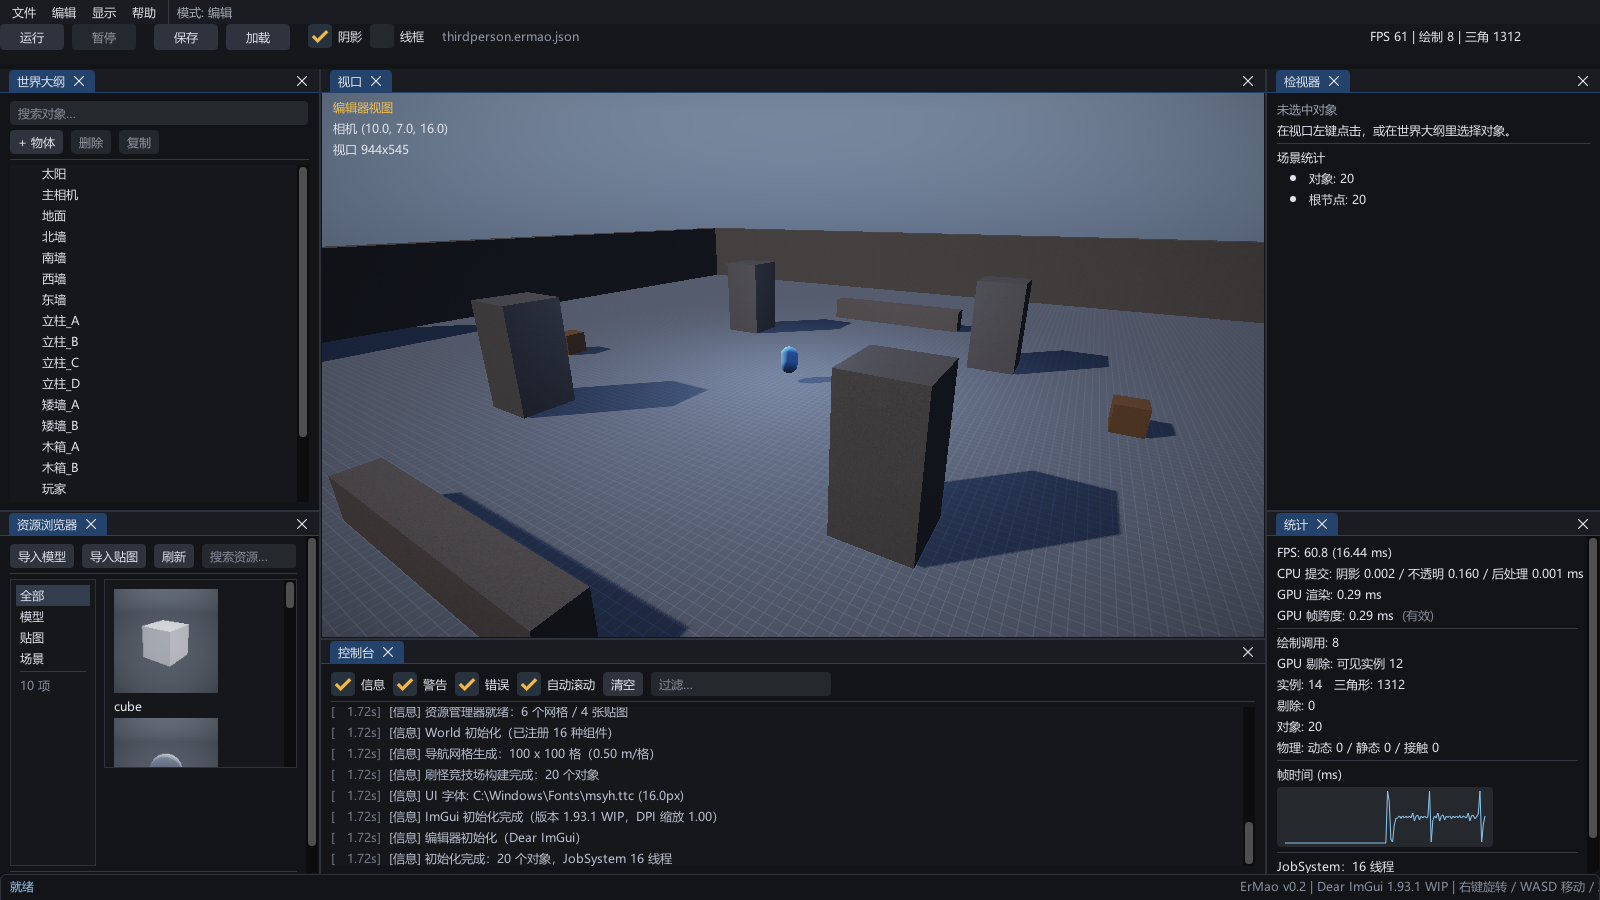
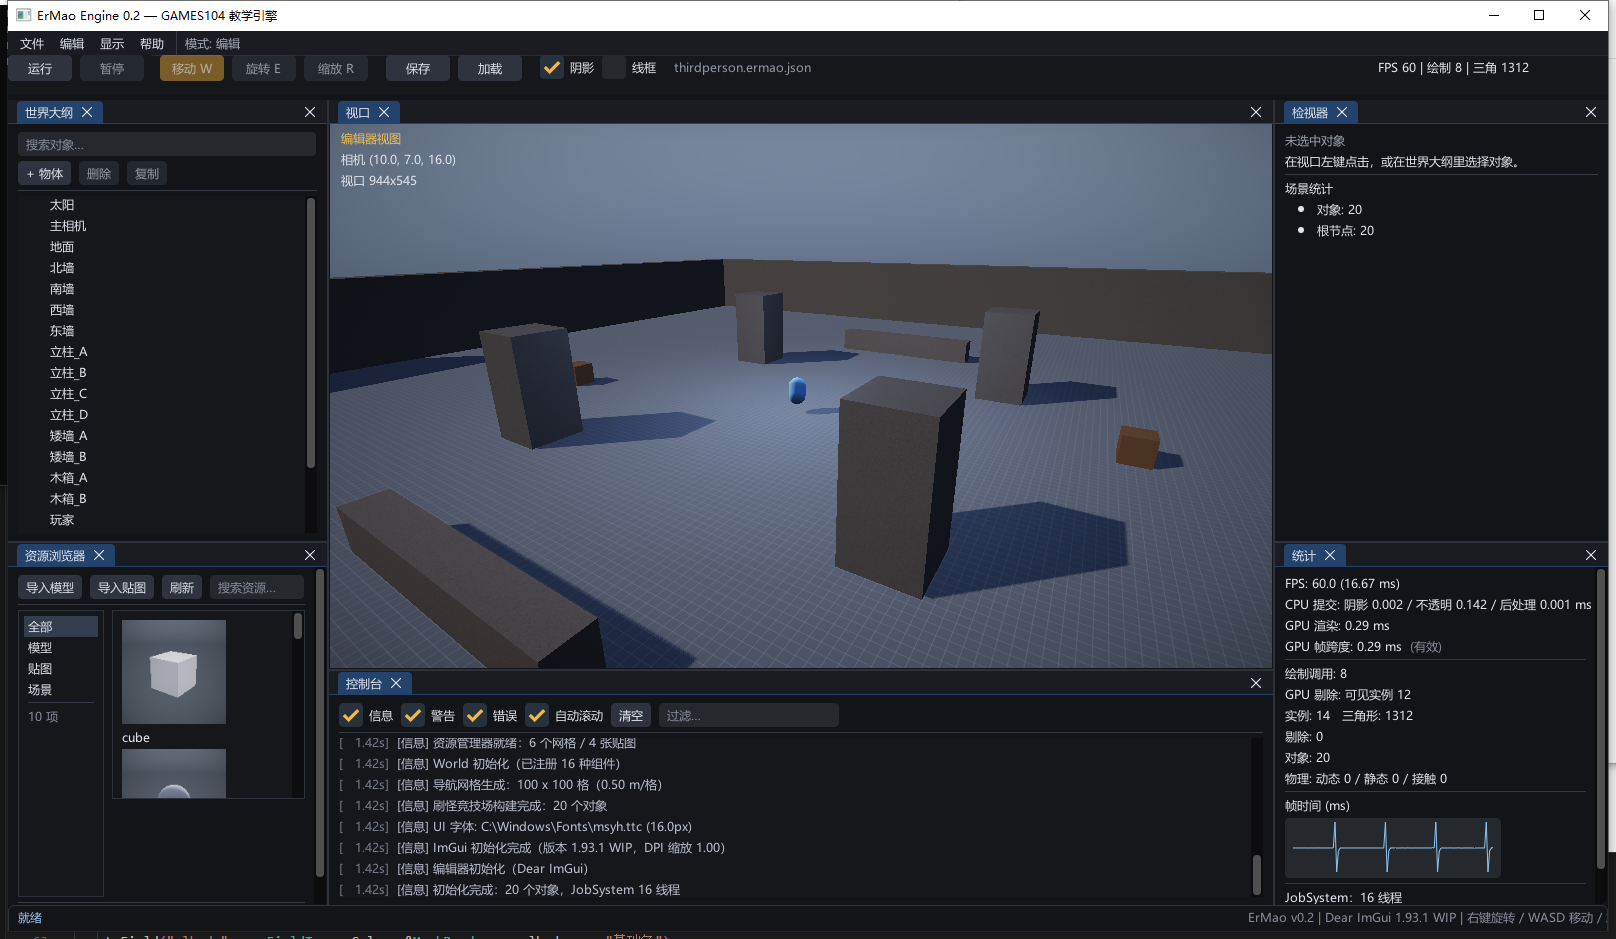
editor: rotate/scale gizmos (W/E/R), camera on RMB, gizmo toolbar; docs: asset credits, 2D/packaging chapters

diff --git a/engine/src/editor/EditorUI.cpp b/engine/src/editor/EditorUI.cpp
@@ -321,6 +321,19 @@ void Editor::DrawToolbar(World& world, Renderer& renderer) {
     ImGui::SameLine();
     ImGui::BeginDisabled(!m_playing);
     if (ImGui::Button(m_paused ? "继续" : "暂停", ImVec2(64, 26))) Pause();
+    ImGui::SameLine();
+    ImGui::Separator();
+    ImGui::SameLine();
+    {
+        const char* gizmoNames[3] = {"移动 W", "旋转 E", "缩放 R"};
+        for (int gi = 0; gi < 3; ++gi) {
+            const bool active = (m_gizmoMode == gi);
+            if (active) ImGui::PushStyleColor(ImGuiCol_Button, ImVec4(0.85f, 0.62f, 0.22f, 0.85f));
+            if (ImGui::Button(gizmoNames[gi], ImVec2(64, 26))) m_gizmoMode = gi;
+            if (active) ImGui::PopStyleColor();
+            if (gi < 2) ImGui::SameLine();
+        }
+    }
     ImGui::EndDisabled();
 
     ImGui::SameLine(0, 18);
@@ -379,16 +392,26 @@ void Editor::DrawViewport(World& world, Renderer& renderer, Camera& editorCamera
                 const Vec3 forward = editorCamera.Forward();
                 const Vec3 right = editorCamera.Right();
                 Vec3 move{0, 0, 0};
-                if (ImGui::IsKeyDown(ImGuiKey_W)) move += forward;
-                if (ImGui::IsKeyDown(ImGuiKey_S)) move -= forward;
-                if (ImGui::IsKeyDown(ImGuiKey_D)) move += right;
-                if (ImGui::IsKeyDown(ImGuiKey_A)) move -= right;
-                if (ImGui::IsKeyDown(ImGuiKey_E)) move += Vec3(0, 1, 0);
-                if (ImGui::IsKeyDown(ImGuiKey_Q)) move -= Vec3(0, 1, 0);
+                if (ImGui::IsMouseDown(ImGuiMouseButton_Right)) {
+                    if (ImGui::IsKeyDown(ImGuiKey_W)) move += forward;
+                    if (ImGui::IsKeyDown(ImGuiKey_S)) move -= forward;
+                    if (ImGui::IsKeyDown(ImGuiKey_D)) move += right;
+                    if (ImGui::IsKeyDown(ImGuiKey_A)) move -= right;
+                    if (ImGui::IsKeyDown(ImGuiKey_E)) move += Vec3(0, 1, 0);
+                    if (ImGui::IsKeyDown(ImGuiKey_Q)) move -= Vec3(0, 1, 0);
+                }
                 if (LengthSq(move) > 0.0f) editorCamera.position += Normalize(move) * speed;
             }
 
-            // ---- 位移 gizmo（先于拾取，避免拖拽轴时改选中）
+            // ---- Gizmo 模式切换：W 移动 / E 旋转 / R 缩放
+            if (!m_playing && m_viewportHovered && !ImGui::GetIO().WantTextInput &&
+                !ImGui::IsMouseDown(ImGuiMouseButton_Right)) {
+                if (ImGui::IsKeyPressed(ImGuiKey_W)) m_gizmoMode = 0;
+                if (ImGui::IsKeyPressed(ImGuiKey_E)) m_gizmoMode = 1;
+                if (ImGui::IsKeyPressed(ImGuiKey_R)) m_gizmoMode = 2;
+            }
+
+            // ---- 位移/旋转/缩放 gizmo（先于拾取，避免拖拽轴时改选中）
             if (!m_playing && m_gizmoEnabled && m_selected && m_viewportHovered) {
                 DrawGizmo(world, editorCamera, imageMin,
                           ImVec2(static_cast<float>(m_viewportWidth), static_cast<float>(m_viewportHeight)));
@@ -1064,7 +1087,7 @@ void Editor::DrawGizmo(World& world, Camera& editorCamera, const ImVec2& viewpor
     const float distance = Length(editorCamera.position - origin);
     const float axisLength = Clamp(distance * 0.16f, 0.35f, 6.0f);
 
-    const Vec3 axes[3] = {{1, 0, 0}, {0, 1, 0}, {0, 0, 1}};
+    const Vec3  axes[3] = {{1, 0, 0}, {0, 1, 0}, {0, 0, 1}};
     const ImU32 colors[3] = {IM_COL32(232, 78, 78, 255), IM_COL32(96, 208, 96, 255), IM_COL32(88, 140, 240, 255)};
 
     auto project = [&](const Vec3& worldPos, ImVec2& out) -> bool {
@@ -1079,10 +1102,87 @@ void Editor::DrawGizmo(World& world, Camera& editorCamera, const ImVec2& viewpor
 
     ImDrawList* draw = ImGui::GetForegroundDrawList();
     const ImVec2 mouse = ImGui::GetIO().MousePos;
+    const bool   activeDrag = m_gizmoAxis >= 0;
 
-    // 命中测试：鼠标到线段的屏幕距离
-    int hoveredAxis = -1;
-    float bestDistance = 10.0f;
+    if (m_gizmoMode == 1) {
+        // ---------------- 旋转：三个环 ----------------
+        int    hovered = -1;
+        float  best = 9.0f;
+        for (int i = 0; i < 3; ++i) {
+            // 在垂直于轴的平面里取两个基向量
+            const Vec3 n = axes[i];
+            const Vec3 u = Normalize(Cross(n, std::fabs(n.y) > 0.9f ? Vec3(1, 0, 0) : Vec3(0, 1, 0)));
+            const Vec3 v = Cross(n, u);
+
+            ImVec2 points[33];
+            bool   valid[33] = {false};
+            int    validCount = 0;
+            for (int k = 0; k <= 32; ++k) {
+                const float angle = kTwoPi * static_cast<float>(k) / 32.0f;
+                const Vec3  p = origin + (u * std::cos(angle) + v * std::sin(angle)) * axisLength;
+                if (project(p, points[k])) {
+                    valid[k] = true;
+                    ++validCount;
+                }
+            }
+            if (validCount < 8) continue;
+
+            // 命中：鼠标到线段的最短距离
+            ImVec2 prev = points[0];
+            for (int k = 1; k <= 32; ++k) {
+                if (!valid[k] || !valid[k - 1]) { prev = points[k]; continue; }
+                const ImVec2 a = prev;
+                const ImVec2 b = points[k];
+                prev = b;
+                const ImVec2 ab(b.x - a.x, b.y - a.y);
+                const float  len2 = ab.x * ab.x + ab.y * ab.y;
+                if (len2 < 1.0f) continue;
+                float t = ((mouse.x - a.x) * ab.x + (mouse.y - a.y) * ab.y) / len2;
+                t = Clamp(t, 0.0f, 1.0f);
+                const float dx = mouse.x - (a.x + ab.x * t);
+                const float dy = mouse.y - (a.y + ab.y * t);
+                const float dist = std::sqrt(dx * dx + dy * dy);
+                if (dist < best) {
+                    best = dist;
+                    hovered = i;
+                }
+            }
+
+            // 绘制环
+            const bool  active = (i == hovered) || (i == m_gizmoAxis);
+            ImVec2 last;
+            bool   hasLast = false;
+            for (int k = 0; k <= 32; ++k) {
+                if (!valid[k]) { hasLast = false; continue; }
+                if (hasLast) draw->AddLine(last, points[k], colors[i], active ? 3.5f : 2.0f);
+                last = points[k];
+                hasLast = true;
+            }
+        }
+
+        if (!activeDrag && hovered >= 0 && ImGui::IsMouseClicked(ImGuiMouseButton_Left)) {
+            m_gizmoAxis = hovered;
+            m_gizmoStartMouseX = mouse.x;
+            m_gizmoStartMouseY = mouse.y;
+            m_gizmoStartRotation = m_selected->Rotation();
+        }
+        if (activeDrag) {
+            if (ImGui::IsMouseDown(ImGuiMouseButton_Left)) {
+                const float delta = (mouse.x - m_gizmoStartMouseX) + (mouse.y - m_gizmoStartMouseY);
+                const float angle = delta * 0.01f;
+                const Quat  rotation = Quat::FromAxisAngle(axes[m_gizmoAxis], angle) * m_gizmoStartRotation;
+                m_selected->SetRotation(rotation);
+            } else {
+                m_gizmoAxis = -1;
+            }
+        }
+        draw->AddCircleFilled(screenOrigin, 3.0f, IM_COL32(240, 240, 240, 200));
+        return;
+    }
+
+    // ---------------- 位移 / 缩放：三轴 ----------------
+    int    hoveredAxis = -1;
+    float  bestDistance = 10.0f;
     ImVec2 axisEnds[3];
     bool   axisValid[3] = {false, false, false};
     for (int i = 0; i < 3; ++i) {
@@ -1095,21 +1195,21 @@ void Editor::DrawGizmo(World& world, Camera& editorCamera, const ImVec2& viewpor
         if (lengthSq < 1.0f) continue;
         float t = ((mouse.x - a.x) * ab.x + (mouse.y - a.y) * ab.y) / lengthSq;
         t = Clamp(t, 0.0f, 1.0f);
-        const ImVec2 closest(a.x + ab.x * t, a.y + ab.y * t);
-        const float  dist = std::sqrt((mouse.x - closest.x) * (mouse.x - closest.x) +
-                                      (mouse.y - closest.y) * (mouse.y - closest.y));
+        const float dx = mouse.x - (a.x + ab.x * t);
+        const float dy = mouse.y - (a.y + ab.y * t);
+        const float dist = std::sqrt(dx * dx + dy * dy);
         if (dist < bestDistance) {
             bestDistance = dist;
             hoveredAxis = i;
         }
     }
 
-    // 开始拖拽
-    if (m_gizmoAxis < 0 && hoveredAxis >= 0 && ImGui::IsMouseClicked(ImGuiMouseButton_Left)) {
+    if (!activeDrag && hoveredAxis >= 0 && ImGui::IsMouseClicked(ImGuiMouseButton_Left)) {
         m_gizmoAxis = hoveredAxis;
         m_gizmoStartMouseX = mouse.x;
         m_gizmoStartMouseY = mouse.y;
         m_gizmoStartPosition = m_selected->Position();
+        m_gizmoStartScale = m_selected->Scale();
         const ImVec2 ab(axisEnds[hoveredAxis].x - screenOrigin.x, axisEnds[hoveredAxis].y - screenOrigin.y);
         const float  length = std::sqrt(ab.x * ab.x + ab.y * ab.y);
         if (length > 2.0f) {
@@ -1121,25 +1221,37 @@ void Editor::DrawGizmo(World& world, Camera& editorCamera, const ImVec2& viewpor
         }
     }
 
-    // 拖拽中
-    if (m_gizmoAxis >= 0) {
+    if (activeDrag) {
         if (ImGui::IsMouseDown(ImGuiMouseButton_Left)) {
             const float along = (mouse.x - m_gizmoStartMouseX) * m_gizmoAxisScreenX +
                                 (mouse.y - m_gizmoStartMouseY) * m_gizmoAxisScreenY;
-            Vec3 position = m_gizmoStartPosition + axes[m_gizmoAxis] * (along * m_gizmoWorldPerPixel);
-            m_selected->SetPosition(position);
+            if (m_gizmoMode == 2) {
+                const float factor = Clamp(1.0f + along * 0.01f, 0.05f, 10.0f);
+                Vec3        scale = m_gizmoStartScale;
+                if (m_gizmoAxis == 0) scale.x *= factor;
+                if (m_gizmoAxis == 1) scale.y *= factor;
+                if (m_gizmoAxis == 2) scale.z *= factor;
+                m_selected->SetScale(scale);
+            } else {
+                const Vec3 position = m_gizmoStartPosition + axes[m_gizmoAxis] * (along * m_gizmoWorldPerPixel);
+                m_selected->SetPosition(position);
+            }
         } else {
             m_gizmoAxis = -1;
         }
     }
 
-    // 绘制
-    if (m_gizmoAxis >= 0) hoveredAxis = m_gizmoAxis;
+    if (activeDrag) hoveredAxis = m_gizmoAxis;
     for (int i = 0; i < 3; ++i) {
         if (!axisValid[i]) continue;
         const bool active = (i == hoveredAxis);
         draw->AddLine(screenOrigin, axisEnds[i], colors[i], active ? 4.0f : 2.5f);
-        draw->AddCircleFilled(axisEnds[i], active ? 6.0f : 4.5f, colors[i]);
+        if (m_gizmoMode == 2) {
+            draw->AddRectFilled(ImVec2(axisEnds[i].x - 5, axisEnds[i].y - 5),
+                                ImVec2(axisEnds[i].x + 5, axisEnds[i].y + 5), colors[i]);
+        } else {
+            draw->AddCircleFilled(axisEnds[i], active ? 6.0f : 4.5f, colors[i]);
+        }
     }
     draw->AddCircleFilled(screenOrigin, 3.5f, IM_COL32(240, 240, 240, 220));
 }

diff --git a/engine/src/editor/EditorUI.h b/engine/src/editor/EditorUI.h
@@ -136,6 +136,8 @@ private:
     float m_benchParallel = 0.0f;
 
     // 位移 gizmo
+    // 0=位移 1=旋转 2=缩放（W/E/R 切换）
+    int    m_gizmoMode = 0;
     bool   m_gizmoEnabled = true;
     int    m_gizmoAxis = -1;      // 0/1/2 = X/Y/Z，-1 未拖拽
     float  m_gizmoStartMouseX = 0.0f;
@@ -144,6 +146,8 @@ private:
     float  m_gizmoAxisScreenX = 0.0f;
     float  m_gizmoAxisScreenY = 0.0f;
     float  m_gizmoWorldPerPixel = 0.01f;
+    Vec3   m_gizmoStartScale{1.0f, 1.0f, 1.0f};
+    Quat   m_gizmoStartRotation{0, 0, 0, 1};
 
     // 视口信息
     u32   m_viewportWidth = 0;

diff --git a/docs/assets-credits.md b/docs/assets-credits.md
@@ -1,0 +1,34 @@
+# 素材来源与许可（Assets Credits）
+
+> 规则：**每个进入仓库的第三方素材都要在这里登记一行**。
+> 字段：文件 / 来源 URL / 作者 / 许可 / 是否改动。
+
+## 2D 素材
+
+| 文件 | 来源 | 作者 | 许可 | 改动 |
+|---|---|---|---|---|
+| `engine/assets/sprites/soldier_idle.png` 等 4 个 Soldier 贴图 | 用户提供的 `Tiny RPG Character Asset Pack 01 v2.0 - Free Soldier & Orc` | 素材包原作者（包内未附许可文件） | 免费素材，学习/演示使用；商用前请向原作者确认 | 仅重命名 |
+| `engine/assets/sprites/orc_idle.png` 等 3 个 Orc 贴图 | 同上 | 同上 | 同上 | 仅重命名 |
+| `engine/assets/sprites/arrow.png` | 同上 | 同上 | 同上 | 仅重命名 |
+| `engine/assets/sprites/kenney_tilemap.png` | https://kenney.nl/assets/tiny-dungeon | Kenney | **CC0 1.0** | 未改动（`LICENSE-kenney-tiny-dungeon.txt` 随附） |
+
+## 程序化资源（无第三方版权）
+
+| 资源 | 生成位置 | 说明 |
+|---|---|---|
+| `gem_proc` | `game/Survivors.cpp` | 代码绘制的 12×12 菱形宝石 |
+| `floor_proc` | `game/Survivors.cpp` | 代码绘制的 32×32 石砖地面 |
+| 立方体/球/圆柱/胶囊/圆环/平面 | `asset/AssetManager.cpp` | 程序化网格 |
+| `grid`/`checker`/`noise`/`white` | `asset/AssetManager.cpp` | 程序化贴图 |
+
+## 字体
+
+| 文件 | 来源 | 许可 |
+|---|---|---|
+| `C:/Windows/Fonts/msyh.ttc`（运行时加载，不入库） | Microsoft Windows 系统字体 | 随 Windows 授权，仅本机使用 |
+
+## 第三方库
+
+| 库 | 版本 | 许可 | 位置 |
+|---|---|---|---|
+| Dear ImGui | 1.93.1 WIP (docking, commit 83ccc61) | MIT | `third_party/imgui/`（见 `LICENSE.txt`） |

diff --git a/docs/lectures/L13-编辑器与工具链.md b/docs/lectures/L13-编辑器与工具链.md
@@ -93,7 +93,18 @@ tmax = min(tmax, max(t1,t2))
 
 ---
 
-## 4. Gizmo（平移手柄）
+## 4. Gizmo 三件套（位移 / 旋转 / 缩放）
+
+| 模式 | 快捷键 | 拖拽行为 | 实现 |
+|---|---|---|---|
+| 位移 | `W` | 沿轴移动；屏幕位移投影到轴 | 世界位移 = 屏幕位移在轴上的投影 × 世界/像素 |
+| 旋转 | `E` | 绕对应轴旋转 | `Quat::FromAxisAngle(axis, delta)` × 起始旋转 |
+| 缩放 | `R` | 沿轴缩放对应分量（0.05~10） | `scale[i] = startScale[i] × factor` |
+
+三种模式共用"轴投影到屏幕 + 求鼠标到线段距离"的命中测试；旋转模式改为画三个环（垂直平面采样 33 点，命中测试鼠标到折线距离）。
+相机 WASD 改成按住右键才移动，把 W/E/R 让给 Gizmo（与 Blender/Unity 习惯一致）。
+
+## 4.1 平移手柄（原实现笔记）
 
 选中物体后画三个轴。**难点是"鼠标拖拽 → 世界位移"的换算**，本工程用屏幕空间投影：
 
